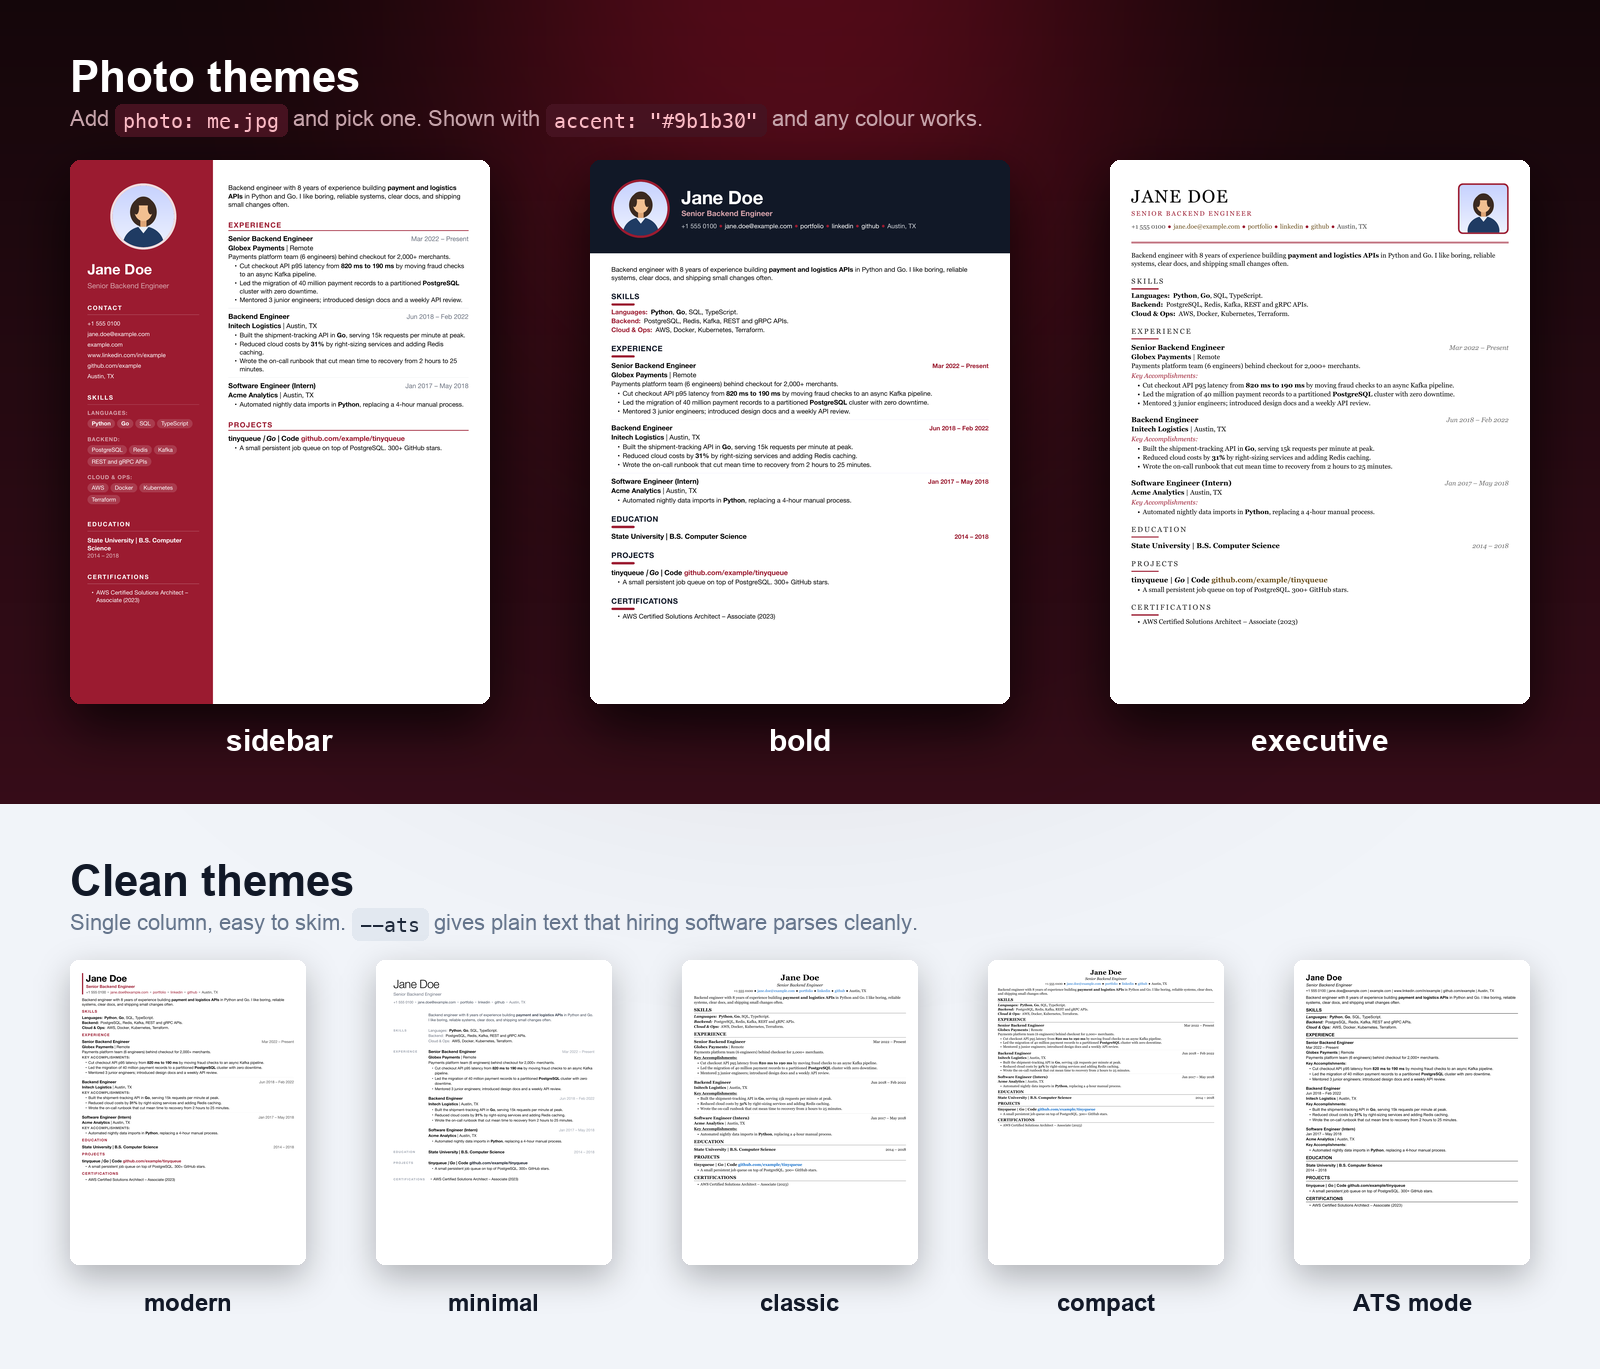
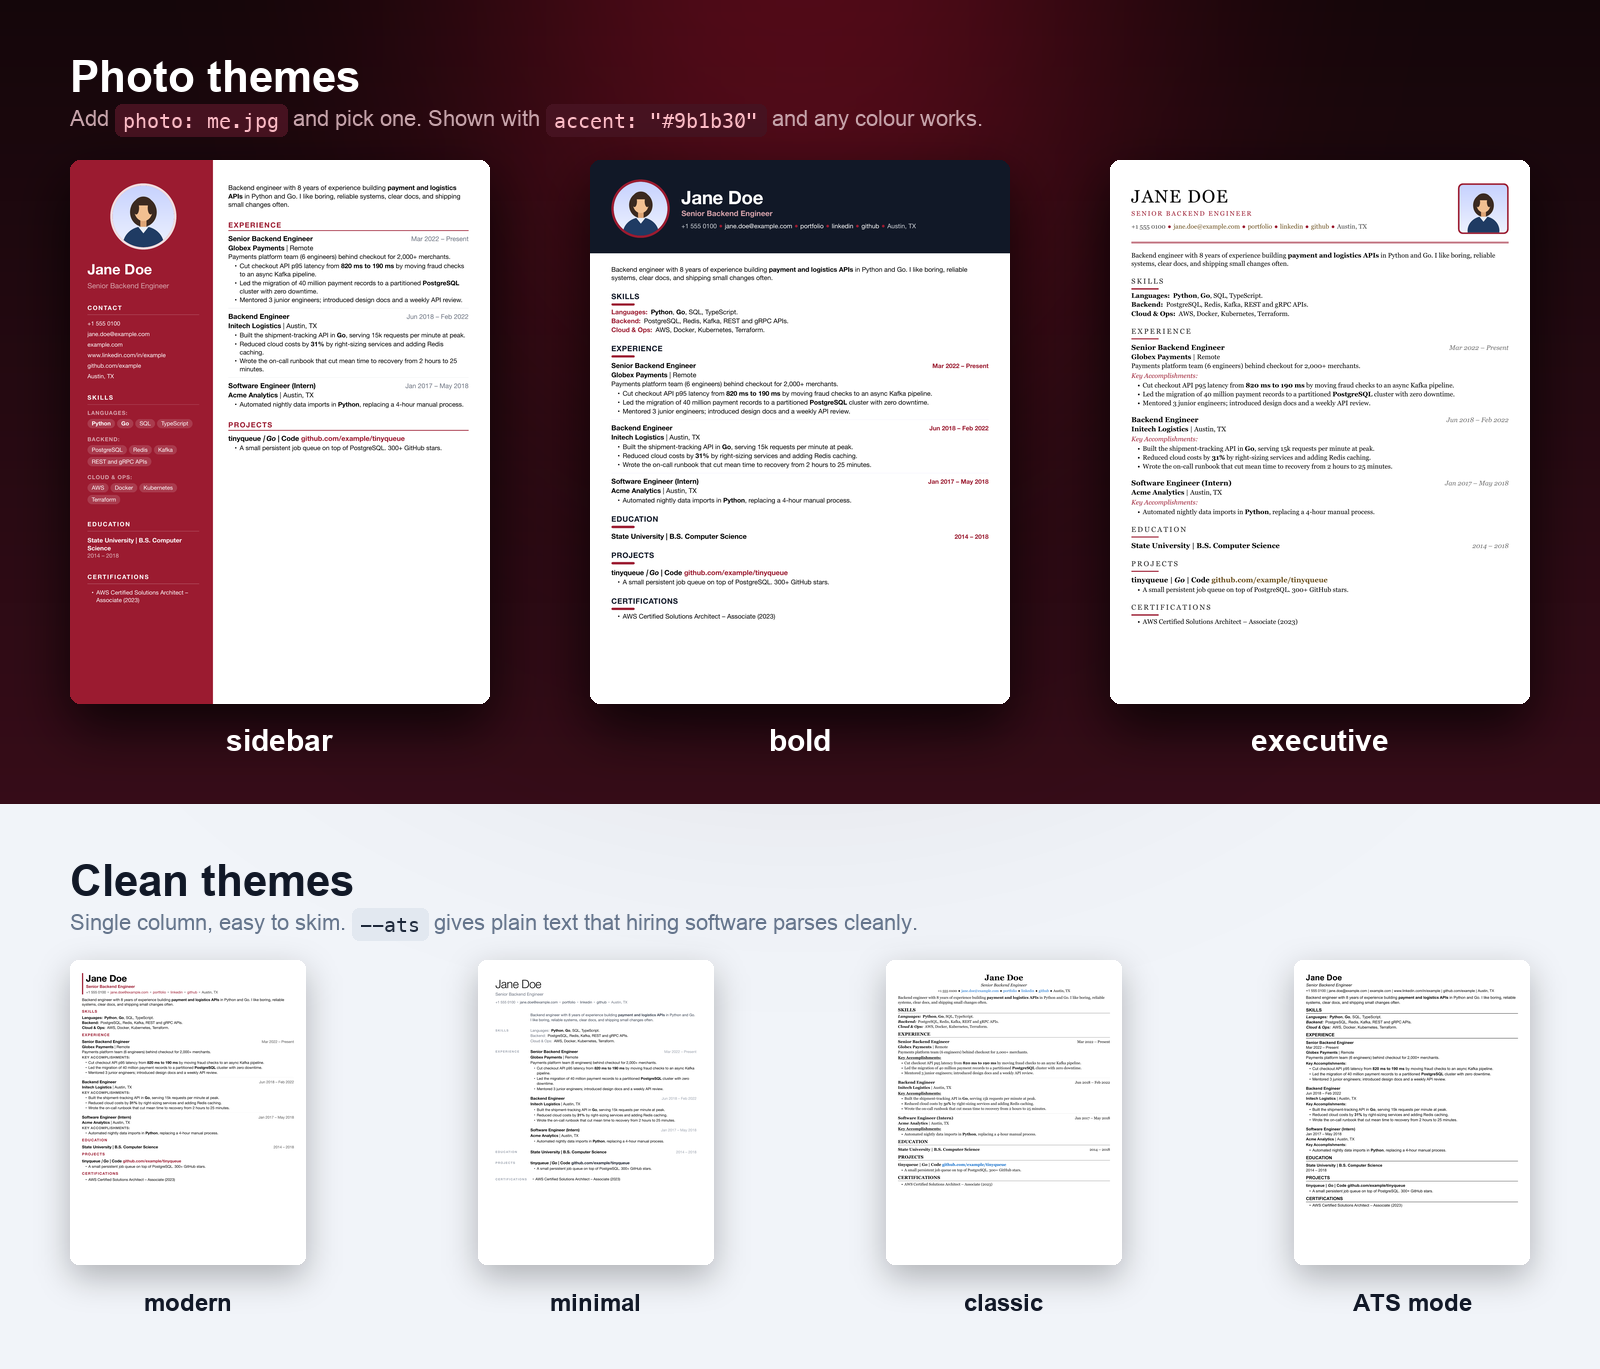
Remove the compact theme
compact was classic with 8.7 pt body text and tighter margins: below
the 10-12 pt recruiters read comfortably, no gain for ATS parsing,
and on a real CV it didn't save a page. Keep classic. `theme: compact`
in an existing YAML falls back to classic with a note, not an error.

Changed region(s): [[0.2188, 0.7056, 0.7812, 0.9817]]

diff --git a/src/easy_ai_resume/build.py b/src/easy_ai_resume/build.py
@@ -163,7 +163,6 @@ class Theme:
 THEMES: dict[str, Theme] = {
     "bold": Theme(photo=True),  # its cover letter has a header band instead of a side band
     "classic": Theme(),
-    "compact": Theme(),
     "minimal": Theme(),
     "modern": Theme(letter_band=True),
     "executive": Theme(photo=True),
@@ -173,6 +172,11 @@ THEMES: dict[str, Theme] = {
 
 def theme_names() -> list[str]:
     return sorted(THEMES)
+
+
+# Themes that were removed, and what a YAML file that still names them gets instead.
+# compact was classic at 8.7 pt: below the 10-12 pt recruiters read comfortably.
+RETIRED_THEMES = {"compact": "classic"}
 
 
 def get_theme(name: str) -> Theme:
@@ -262,6 +266,7 @@ def render(
     """
     ats = bool(data.get("ats")) if ats is None else ats
     theme = theme or data.get("theme") or "classic"
+    theme = RETIRED_THEMES.get(theme, theme)
     spec = get_theme(theme)
     layout = "single" if ats else spec.layout
     ctx: dict[str, Any] = {
@@ -405,6 +410,9 @@ def build_file(
                   file=sys.stderr)
             size = "A4"
     page = render(data, kind, page_size=size, **look)
+    old = theme or data.get("theme")
+    if old in RETIRED_THEMES:
+        print(f"note ({path.name}): the {old} theme was removed; using {RETIRED_THEMES[old]}.", file=sys.stderr)
     note = missing_photo_note(data, kind, theme, ats)
     if note:
         print(f"note ({path.name}): {note}", file=sys.stderr)

diff --git a/docs/make_gallery.py b/docs/make_gallery.py
@@ -25,7 +25,7 @@ WHITE, INK, MUTED_DARK, MUTED_LIGHT = (255, 255, 255), (17, 24, 39), (201, 166, 
 BRAND, BRIGHT, BLUSH = (179, 18, 46), (255, 92, 116), (255, 150, 165)
 ACCENT = DEFAULT_ACCENT  # pages in the images use the default accent, as users get it
 PHOTO_ORDER = ["sidebar", "bold", "executive"]
-CLEAN_ORDER = ["modern", "minimal", "classic", "compact"]
+CLEAN_ORDER = ["modern", "minimal", "classic"]
 
 
 # ----------------------------------------------------------------- rendering
@@ -143,7 +143,7 @@ def showcase(shots: dict[str, Image.Image], letters: dict[str, Image.Image]) -> 
 
     d = ImageDraw.Draw(canvas)
     d.text((80, 70), "One YAML file.", font=font(54, bold=True), fill=WHITE)
-    d.text((80, 134), "Seven good-looking PDFs.", font=font(54, bold=True), fill=BLUSH)
+    d.text((80, 134), "Six good-looking PDFs.", font=font(54, bold=True), fill=BLUSH)
     d.text((W - 80, H - 60), "every page rendered by easy-ai-resume from examples/", font=font(20), fill=MUTED_LIGHT, anchor="rs")
 
     place(canvas, page(letters["bold"], 400), (470, 610), angle=8)

diff --git a/tests/test_build.py b/tests/test_build.py
@@ -207,3 +207,11 @@ def test_page_fit_from_the_yaml(cv, tmp_path, monkeypatch, capsys):
     build_file(tmp_path / "cv.yaml", tmp_path, pdf=False)
     assert "size: A4;" in (tmp_path / "Jane_Doe_CV.html").read_text()
     assert "using A4" in capsys.readouterr().err
+
+
+def test_removed_compact_theme_falls_back_to_classic(cv, tmp_path, capsys):
+    cv["theme"] = "compact"
+    (tmp_path / "cv.yaml").write_text(yaml.safe_dump(cv))
+    build_file(tmp_path / "cv.yaml", tmp_path, pdf=False)
+    assert "theme-classic" in (tmp_path / "Jane_Doe_CV.html").read_text()
+    assert "compact theme was removed; using classic" in capsys.readouterr().err

diff --git a/README.md b/README.md
@@ -161,7 +161,6 @@ Every theme uses the deep red in the pictures (`#9b1b30`) unless you set `accent
 | `modern` | Sans-serif, accent colour | ❌ |
 | `minimal` | Light type, labels in the margin | ❌ |
 | `classic` (default) | Serif, centred header | ❌ |
-| `compact` | Smaller type, fits more on a page | ❌ |
 
 No PDF because Pango won't install? `easy-ai-resume build --html-only`, open the HTML file in a browser, **Print → Save as PDF**.
 

diff --git a/CHANGELOG.md b/CHANGELOG.md
@@ -1,5 +1,11 @@
 # Changelog
 
+## Unreleased
+
+- **Removed the `compact` theme.** It was `classic` at 8.7 pt, below the 10-12 pt recruiters read
+  comfortably, and didn't save a page on real CVs. A YAML file that still says `theme: compact` gets
+  `classic` with a note.
+
 ## 0.10.0 — 2026-11-05
 
 - **Fixed:** links in cover letter PDFs (LinkedIn, GitHub, website) couldn't be clicked, in any theme.
